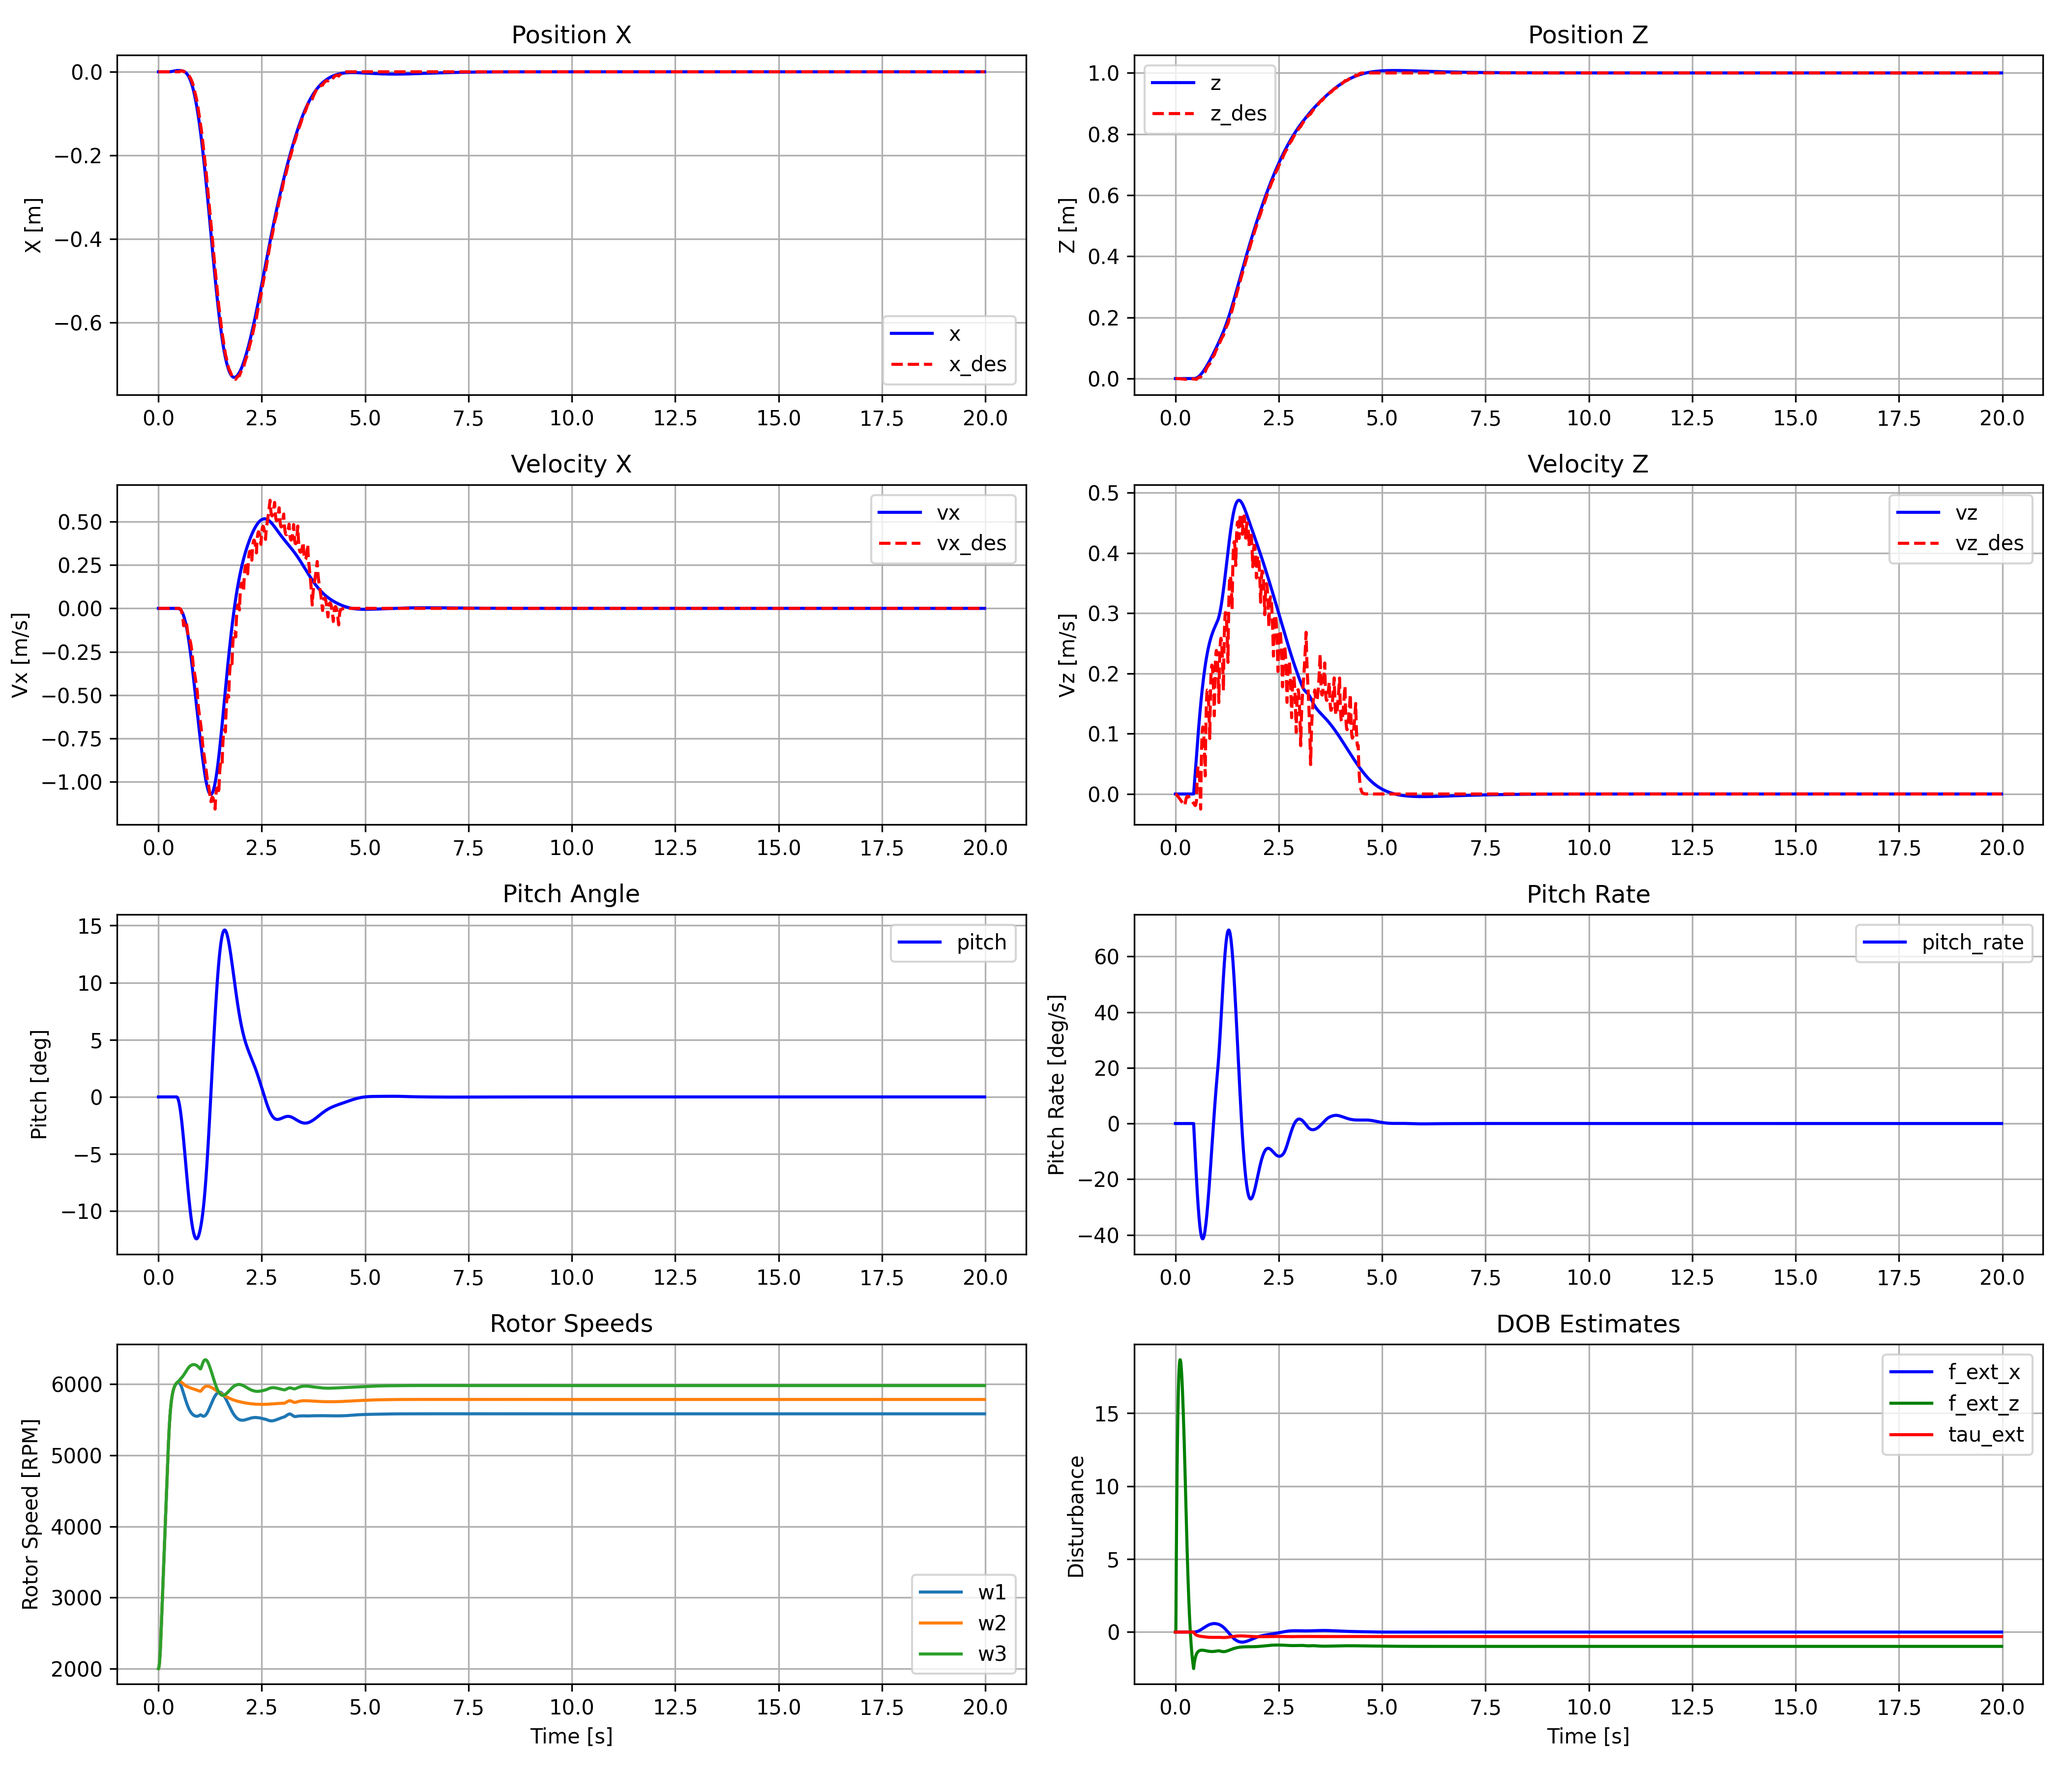
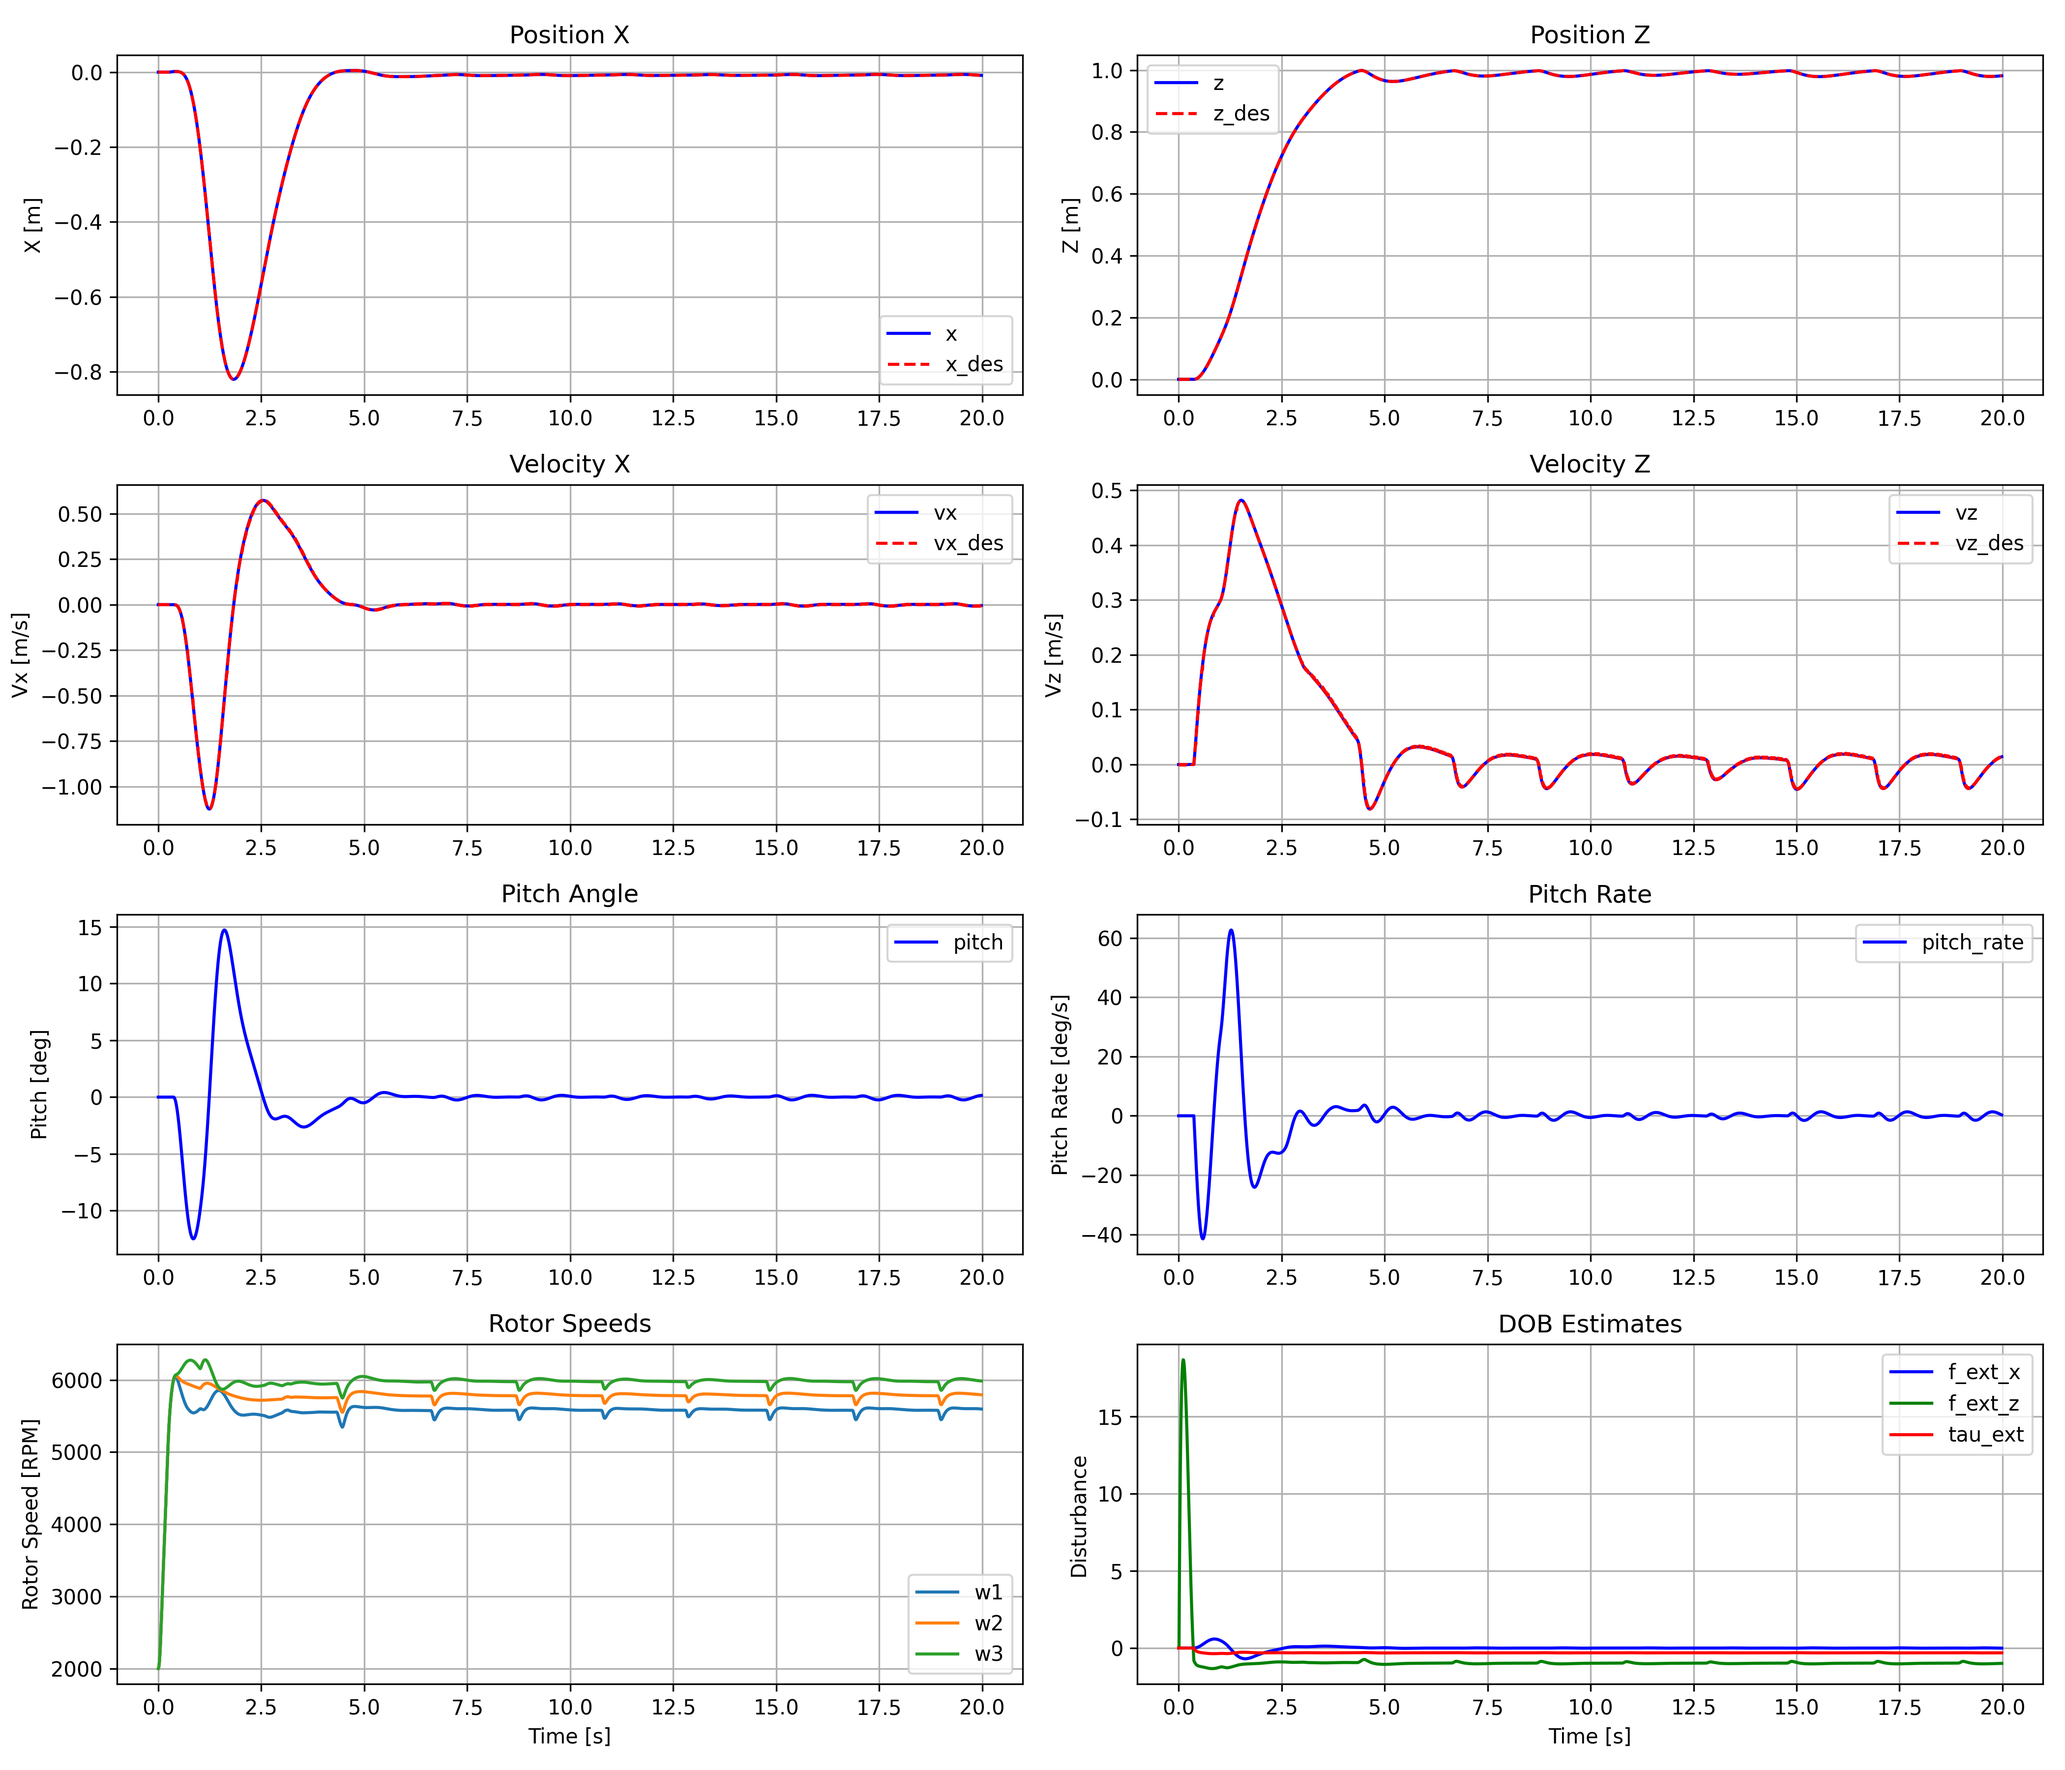
Revert to simple 100Hz replanning without continuity logic
Simple replanning: always use actual state, replan every interval.
No trajectory continuity, no tracking error check, no regulation mode.

https://claude.ai/code/session_01GV4BW7oaZMroEfAuZQv2Ty

diff --git a/control/nmpc/ocp/S550_3DOF_ocp.py b/control/nmpc/ocp/S550_3DOF_ocp.py
@@ -239,29 +239,13 @@ class S550_3DOF_ocp:
         # Use previous optimal control for reference if available
         u_ref = self.previous_u0 if self.previous_u0 is not None else u_prev
 
-        # Check if we should use regulation (target hold) instead of trajectory
-        dist_to_target = np.linalg.norm(state_2d[0:2] - self.target_2d)
-        vel_mag = np.linalg.norm(state_2d[2:4])
-        use_regulation = (dist_to_target < 0.03 and vel_mag < 0.05)
+        # Simple 100Hz replanning: replan every interval
+        need_replan = self.traj is None
+        if not need_replan and (t_now - self.t_start) >= self.replan_interval:
+            need_replan = True
 
-        if not use_regulation:
-            # Check if we need to regenerate trajectory
-            need_replan = self.traj is None
-            if not need_replan and (t_now - self.t_start) >= self.replan_interval:
-                # Check tracking error - only regenerate if tracking is poor
-                t_rel_check = t_now - self.t_start
-                if t_rel_check < self.traj.duration:
-                    p_ref, _ = self._get_reference(t_rel_check)
-                    pos_err = np.linalg.norm(state_2d[0:2] - p_ref)
-                    if pos_err > 0.01:  # Poor tracking: regenerate from actual state
-                        need_replan = True
-                    # else: good tracking, keep using existing trajectory
-                else:
-                    # Trajectory ended but not at target yet
-                    need_replan = True
-
-            if need_replan:
-                self._generate_trajectory(state_2d, t_now)
+        if need_replan:
+            self._generate_trajectory_simple(state_2d, t_now)
 
         t_rel = t_now - self.t_start
         dt = self.T / self.N
@@ -273,46 +257,22 @@ class S550_3DOF_ocp:
         self.ocp_solver.set(0, 'lbx', state_transformed)
         self.ocp_solver.set(0, 'ubx', state_transformed)
 
-        if use_regulation:
-            # Near target: use fixed-point regulation reference
-            ref_reg = np.zeros(6)
-            ref_reg[0] = self.target_2d[0]
-            ref_reg[1] = self.target_2d[1]
-            for stage in range(self.N):
-                y_ref = np.concatenate((ref_reg, u_ref))
-                self.ocp_solver.set(stage, 'y_ref', y_ref)
-            self.ocp_solver.set(self.N, 'y_ref', ref_reg)
-            # Get raw p_des, v_des for logging
-            p_des_raw = self.target_2d.copy()
-            v_des_raw = np.zeros(2)
-        else:
-            # Set reference for each stage along prediction horizon
-            for stage in range(self.N):
-                t_ref = t_rel + stage * dt
-                ref_stage = self._traj_to_ref(t_ref)
-                y_ref = np.concatenate((ref_stage, u_ref))
-                self.ocp_solver.set(stage, 'y_ref', y_ref)
+        # Set reference for each stage along prediction horizon
+        for stage in range(self.N):
+            t_ref = t_rel + stage * dt
+            ref_stage = self._traj_to_ref(t_ref)
+            y_ref = np.concatenate((ref_stage, u_ref))
+            self.ocp_solver.set(stage, 'y_ref', y_ref)
 
-            # Terminal reference
-            t_ref_N = t_rel + self.T
-            ref_N = self._traj_to_ref(t_ref_N)
-            self.ocp_solver.set(self.N, 'y_ref', ref_N)
-            # Get raw p_des, v_des for logging
-            p_des_raw, v_des_raw = self._get_reference(t_rel)
+        # Terminal reference
+        t_ref_N = t_rel + self.T
+        ref_N = self._traj_to_ref(t_ref_N)
+        self.ocp_solver.set(self.N, 'y_ref', ref_N)
 
         status = self.ocp_solver.solve()
 
-        # Apply EMA smoothing to reference for logging (reduces visual noise)
-        alpha = self.ref_smooth_alpha
-        if self.p_des_smooth is None:
-            self.p_des_smooth = p_des_raw.copy()
-            self.v_des_smooth = v_des_raw.copy()
-        else:
-            self.p_des_smooth = alpha * p_des_raw + (1 - alpha) * self.p_des_smooth
-            self.v_des_smooth = alpha * v_des_raw + (1 - alpha) * self.v_des_smooth
-
-        p_des = self.p_des_smooth.copy()
-        v_des = self.v_des_smooth.copy()
+        # Get p_des, v_des at current time for logging
+        p_des, v_des = self._get_reference(t_rel)
 
         # Store state trajectory and control for warm start
         self.previous_states = []
@@ -325,35 +285,12 @@ class S550_3DOF_ocp:
 
         return status, w_cmd, p_des, v_des
 
-    def _generate_trajectory(self, state_2d, t_now):
-        """Generate Hehn trajectory from current position to target.
-
-        Uses HehnTrajectory directly: pos0 -> target.
-        get_position(t) returns desired position, get_velocity(t) returns
-        desired velocity. No sign conversions needed.
-
-        For 100Hz replanning continuity: if previous trajectory exists and
-        tracking error is small, use the previous trajectory's reference
-        as initial condition (not actual state). This ensures smooth
-        reference transitions.
+    def _generate_trajectory_simple(self, state_2d, t_now):
+        """Generate Hehn trajectory from current state to target.
+        Simple version: always use actual state, no continuity logic.
         """
-        # Check if we can use previous trajectory reference for continuity
-        use_traj_ref = False
-        if self.traj is not None:
-            t_rel = t_now - self.t_start
-            if t_rel < self.traj.duration:
-                p_ref, v_ref = self._get_reference(t_rel)
-                pos_err = np.linalg.norm(state_2d[0:2] - p_ref)
-                if pos_err < 0.01:  # Good tracking: use trajectory reference
-                    use_traj_ref = True
-                    pos0 = np.array([p_ref[0], 0.0, p_ref[1]])
-                    vel0 = np.array([v_ref[0], 0.0, v_ref[1]])
-
-        if not use_traj_ref:
-            # Use actual state (first trajectory or large tracking error)
-            pos0 = np.array([state_2d[0], 0.0, state_2d[1]])
-            vel0 = np.array([state_2d[2], 0.0, state_2d[3]])
-
+        pos0 = np.array([state_2d[0], 0.0, state_2d[1]])
+        vel0 = np.array([state_2d[2], 0.0, state_2d[3]])
         acc0 = np.zeros(3)
 
         traj_raw = self.traj_gen.generate(pos0, vel0, acc0, target=self.target_3d)
